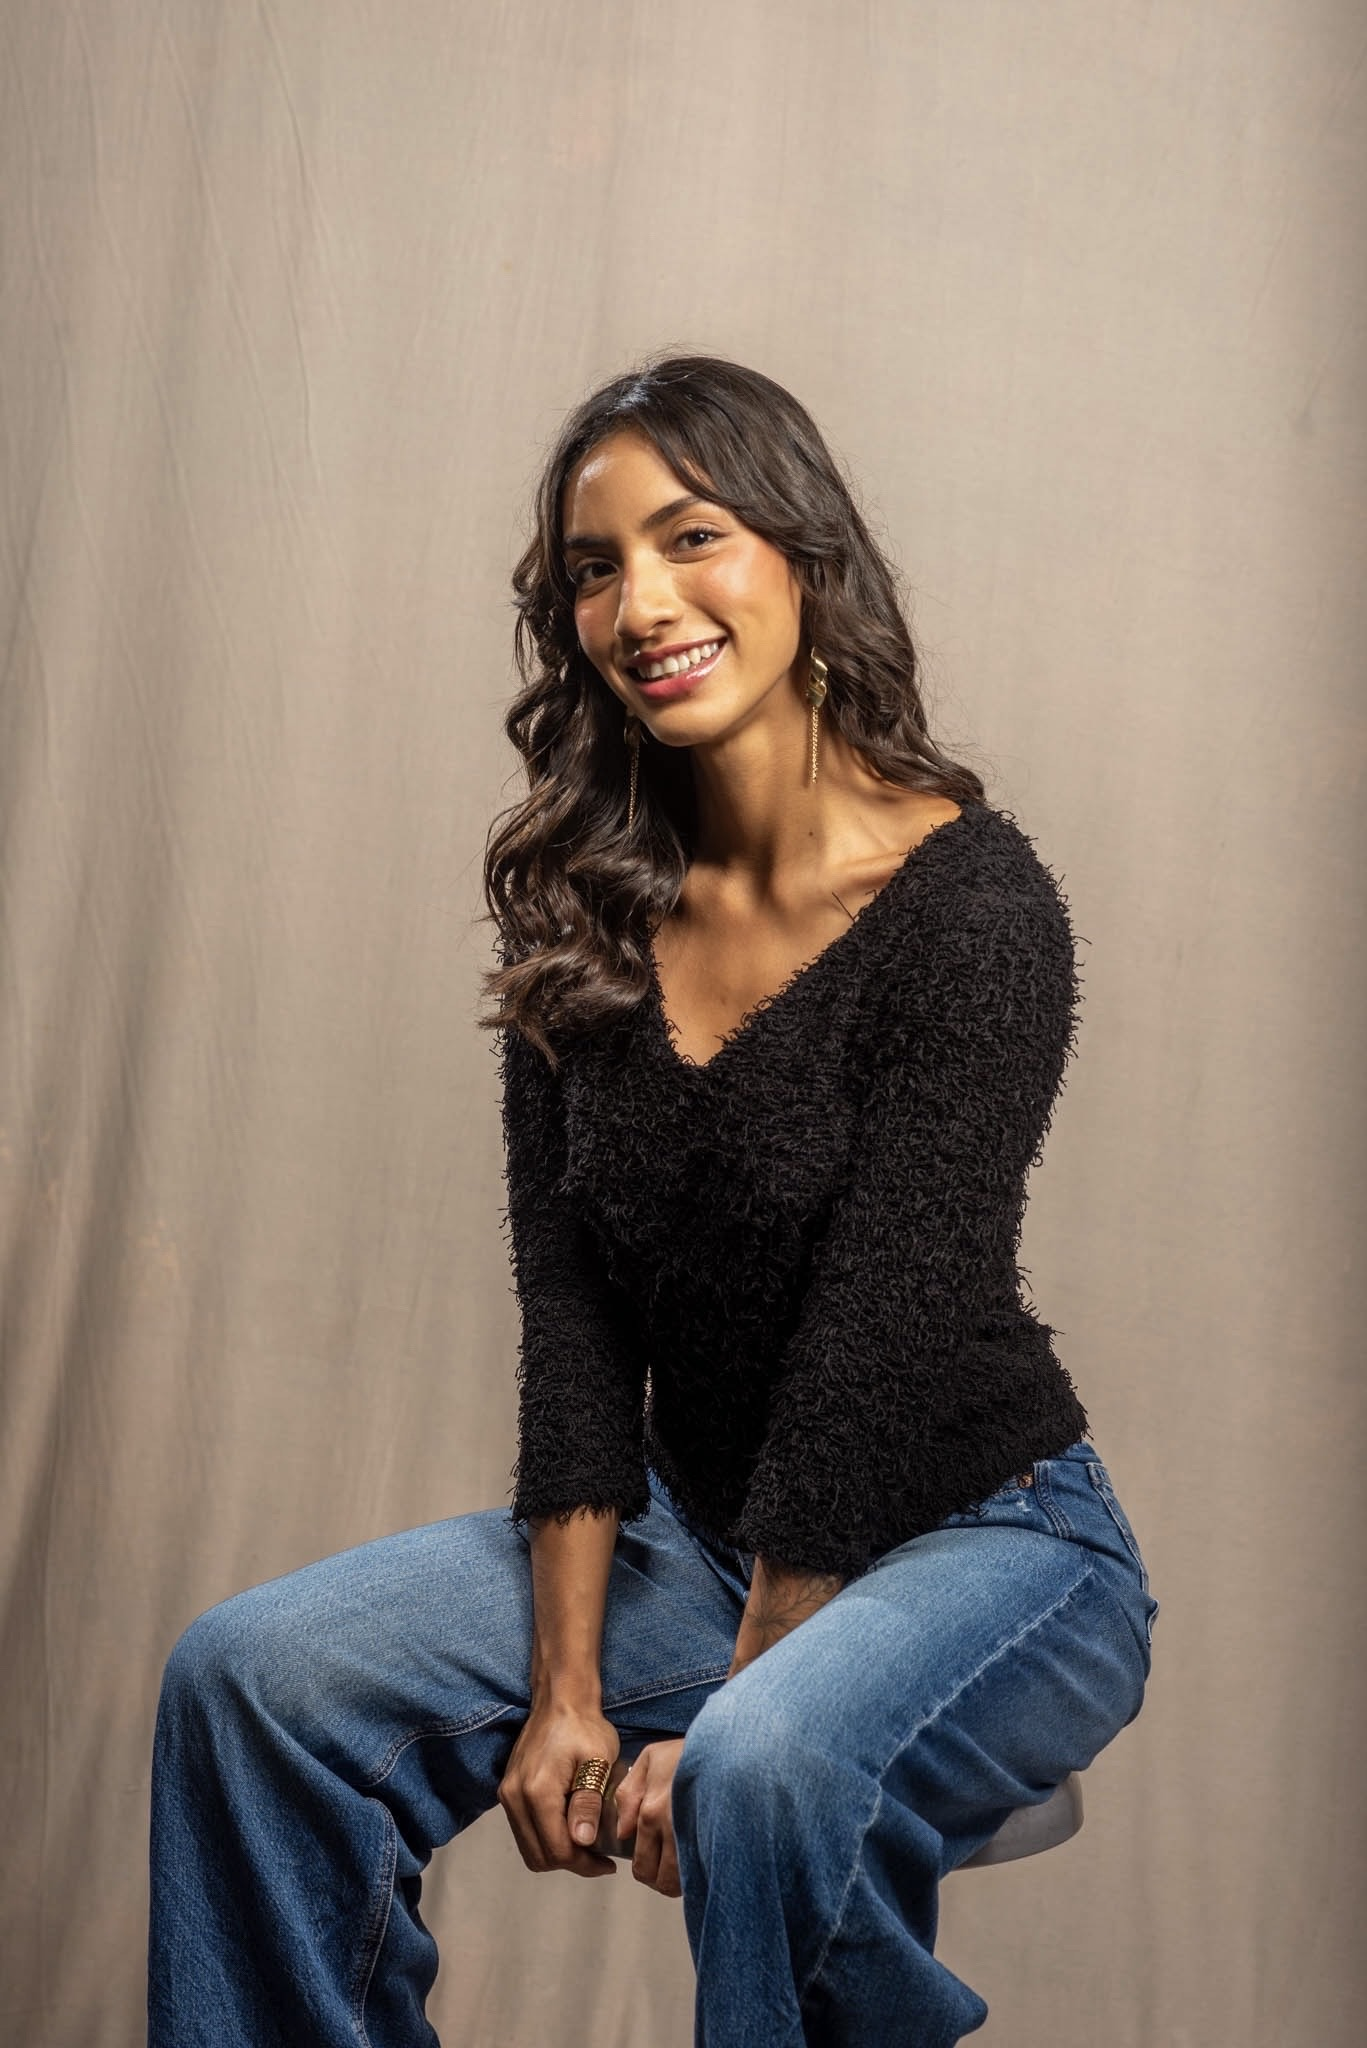
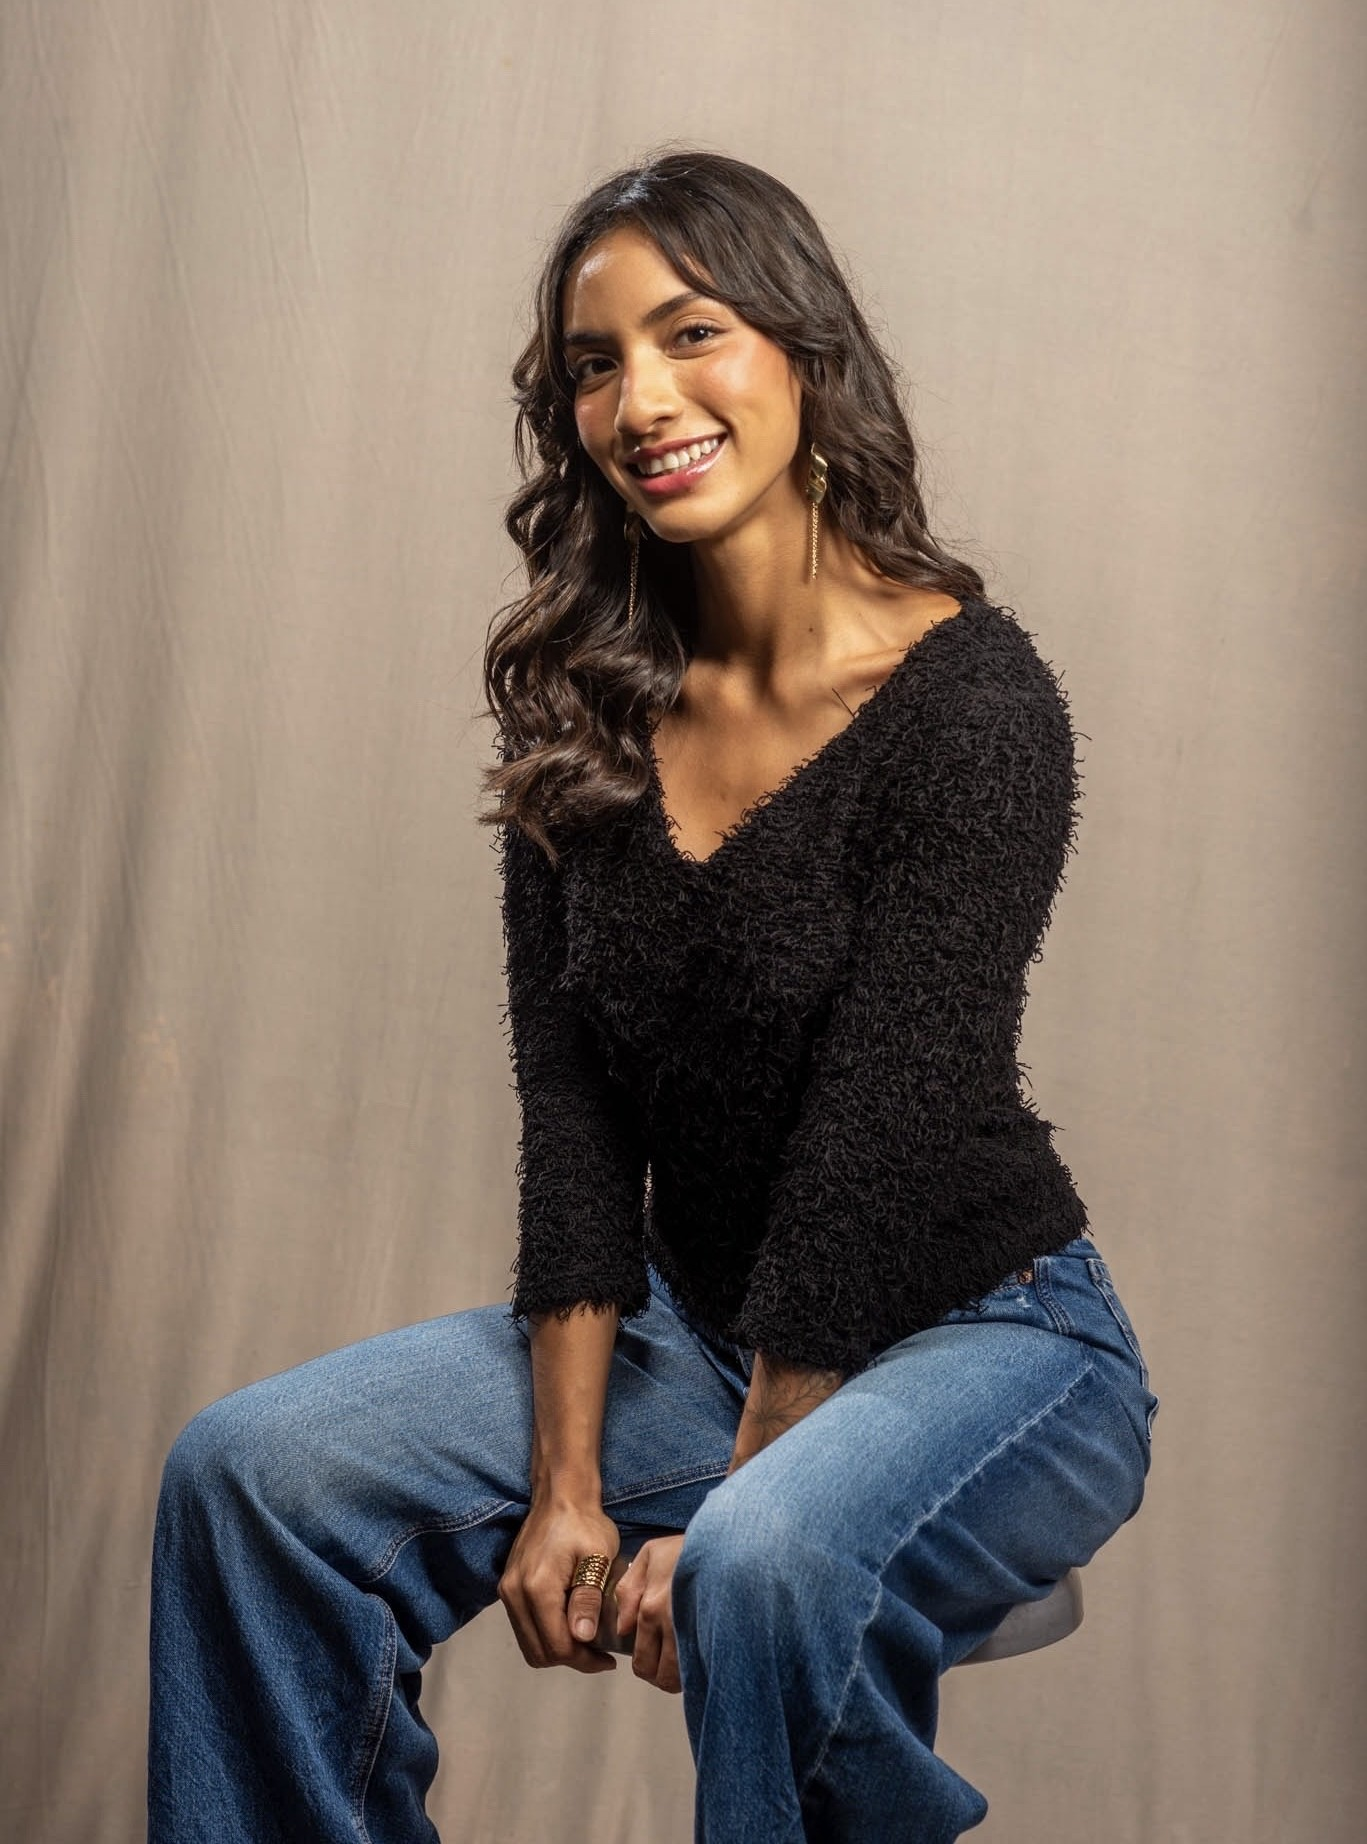
UI

diff --git a/index.html b/index.html
@@ -197,7 +197,7 @@
 							</h3>
 						</div> -->
 						<div class="columns">
-							<div class="column is-one-half" id="get-started-image">
+							<div class="column is-one-half" id="about-me-image">
 								<figure class="image">
 									<img class="profile-image" src="../images/IMG_2.jpeg" />
 								</figure>

diff --git a/index.css b/index.css
@@ -364,7 +364,12 @@ form {
 	margin: auto 7vw auto 17vw;
 }
 #get-started-image {
-	margin: 2vw 12vw 2vw 0vw;
+	margin: 2vw 16vw 2vw 0vw;
+	/* margin: auto 12vw auto 8vw; */
+	padding: 0em;
+}
+#about-me-image {
+	margin: 2vw 0vw 2vw 16vw;
 	/* margin: auto 12vw auto 8vw; */
 	padding: 0em;
 }
